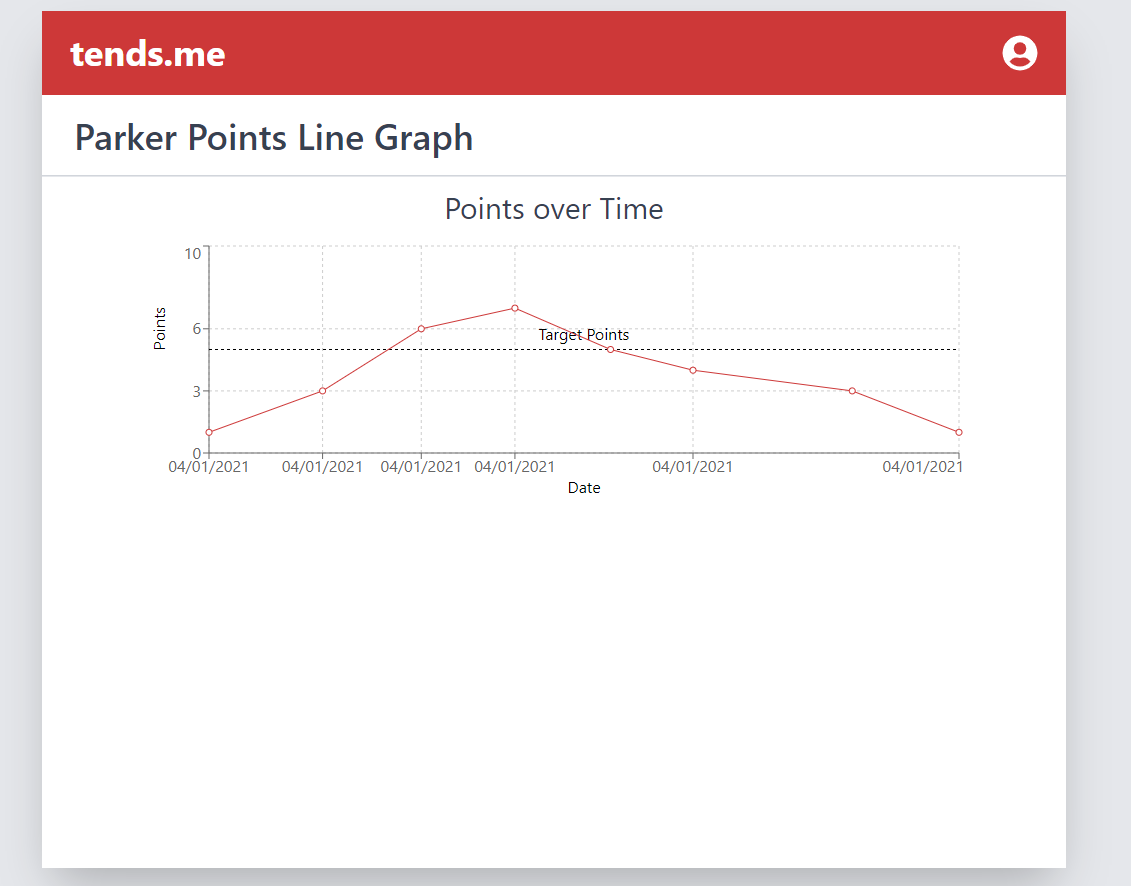
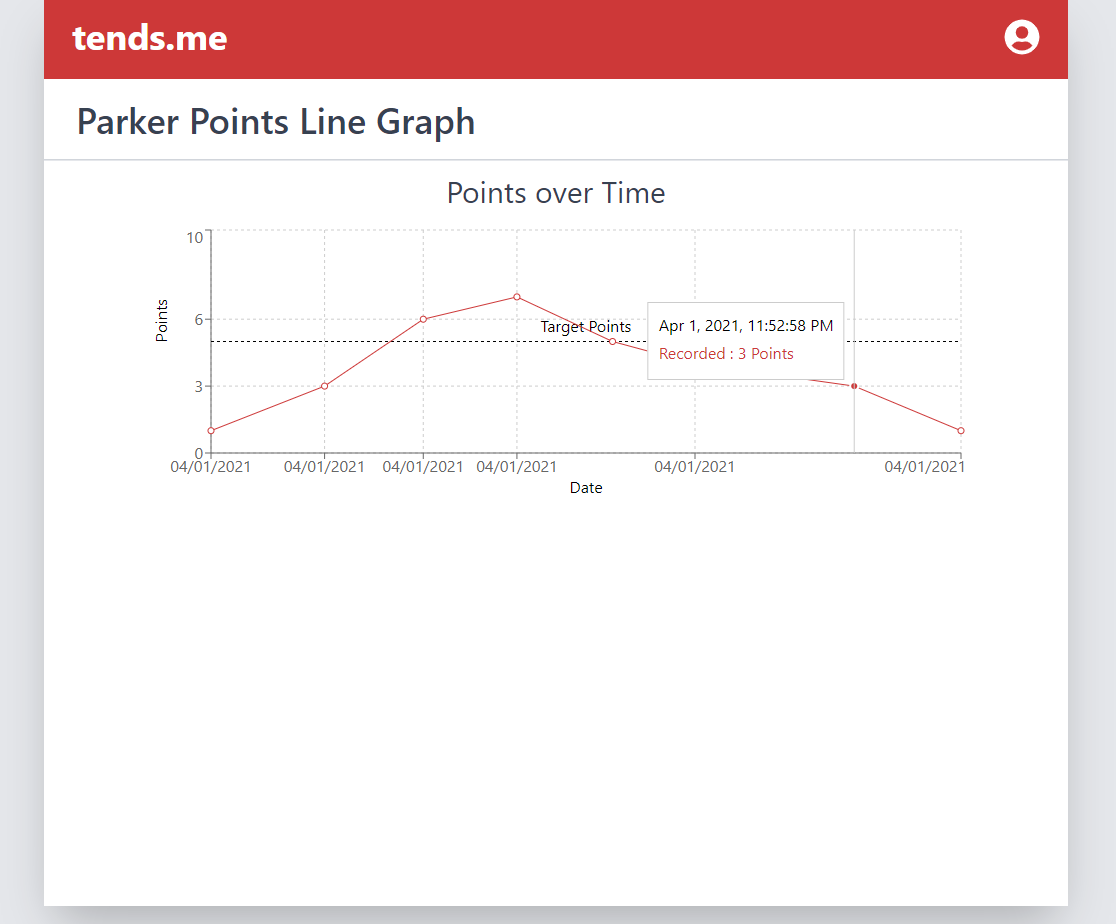
technical case study

diff --git a/TechnicalCaseStudy/TechnicalCaseStudy.md b/TechnicalCaseStudy/TechnicalCaseStudy.md
@@ -297,7 +297,7 @@ Notice that the API route verifies the token in the request header. Without that
 
 ## Trends
 
-At this point in development, the user could successfully create a tend and have it display on their dashboard. Now I wanted to store data points associated with that tend. The app I use to track my intermittent fasting displays statistics and graphs for weight and time spent fasting: this is exactly what I envisioned for my application, except not exclusive to fasting nor weight.
+At this point in development, the user could successfully create a tend and have it display on their dashboard. Now I wanted to store data points associated with that tend. The app I use to track my intermittent fasting displays statistics and graphs for weight and time spent fasting: this is exactly what I envisioned for my application, except not exclusive to tracking fasting nor weight.
 
 Firstly, I needed to determine *when* a data point should be stored. For the quantity tend, I have it set up for now to store a data point when the "reset" button is manually clicked. However, eventually, I would like to allow the user to decide how often they would like their quantity tend to be automatically reset and stored (think: weekly pages read, daily calories). For the timer tend, a data point is stored whenever the timer is stopped.
 
@@ -307,36 +307,23 @@ Firstly, I needed to determine *when* a data point should be stored. For the qua
 ### Example Timer Trend Data Stored in Firebase
 ![Timer Trend Data Stored in Firebase](./img/timer-trend-firebase.png)
 
+## Data Visualization
+
+The goal with the trends feature is to meaningfully display the user's habits over time. To accomplish this, I use Next.js dynamic routes to create a path for each tend, then use [Recharts](https://recharts.org/en-US) visualize the trend data associated with that tend.
+
+### Skeleton of Recharts Line Graph for Trend Data
+
 ```jsx
 <ContentContainer>
-    <div className="border-b border-gray-300 p-5">
-        <h1 className="ml-3 font-semibold text-gray-700">
-            {initialTrends[0].tendTitle} Line Graph
-        </h1>
-    </div>
-
-    <hr className="text-gray-400" />
-    <h2 className="mx-auto text-gray-700 mt-3">
-        {initialTrends[0].tendUnits} over Time
-    </h2>
-    <ResponsiveContainer
-        width="80%"
-        height="30%"
-        className="mx-auto my-4"
-    >
+    <ResponsiveContainer>
         <LineChart data={sortedTrends}>
-            <CartesianGrid strokeDasharray="3 3" />
+            <CartesianGrid  />
             <XAxis
-                height={40}
                 dataKey="createdAt"
                 scale="time"
                 type="number"
-                domain={["auto", "auto"]}
-                tickFormatter={(unixTime) =>
-                    format(new Date(unixTime), "P")
-                }
             >
-                <Label position="insideBottom" offset={0}>
+                <Label>
                     Date
                 </Label>
             </XAxis>
@@ -355,18 +342,13 @@ Firstly, I needed to determine *when* a data point should be stored. For the qua
             </YAxis>
             <ReferenceLine
                 y={targetValue}
-                stroke="black"
-                strokeDasharray="3 3"
             >
                 <Label
-                    position="top"
-                    offset={10}
                 >{`Target ${tendUnits}`}</Label>
             </ReferenceLine>
             <Line
                 dataKey="currentValue"
                 unit={tendUnits}
-                stroke="#CD3838"
             />
             <Tooltip
                 formatter={(value) => [`${value} `, `Recorded`]}
@@ -378,3 +360,17 @@ Firstly, I needed to determine *when* a data point should be stored. For the qua
     </ResponsiveContainer>
 </ContentContainer>
 ```
+
+The `LineChart` component takes in an array of trends sorted by date created and creates a meaningful visualization that the user can observe to determine whether he or she is building or breaking a habit.
+
+![Parker Points Trend Graph](img/parker-points-trend.png)
+
+## Stripe Integration
+
+As was true with implementing authentication and database, adding Stripe to this project was much less painful than I had anticipated. Again, I followed along with the React2025 course: first, the Stripe extension for Firebase was installed on project, then Stripe was configured in the code so that the user could create Stripe Checkout Sessions and access their Billing Portal. 
+
+At this point in time, the functionality of Stripe in this application is limited. So far, the content created for the application is what I expected to be accessible by free-tier, unsubscribed users. There is plenty of room for more dashboard customizability, more tend types, more trend data visualization, and new features to be implemented, all of which would justify a premium plan being included into the project. For now, though, the current state of the project does not justify the existence of a premium subscription tier of user.
+
+## Moving Forward
+
+At the moment of writing, the application is *usable*. However, as previously mentioned, there are many opportunities for this project to grow. There currently are some bugs to squash and some aspects of user experience that need improvement. Furthermore, admittedly, as deadlines approached, I felt myself grow lazier with TypeScript, and eventually I just reverted to plain JavaScript to more easily follow along with the tutorials I was viewing. Nevertheless, I'm satisfied with the foundation that I have set for the future of this project to stand atop, and I truly believe that this idea has potential as a SaaS application. Overall, I'm both surprised and delighted at how little trouble I ran into while taking on things that I had anticipated to be difficult. This project has given me the gratification to both continue developing it and to continue my journey as a self-taught developer.
